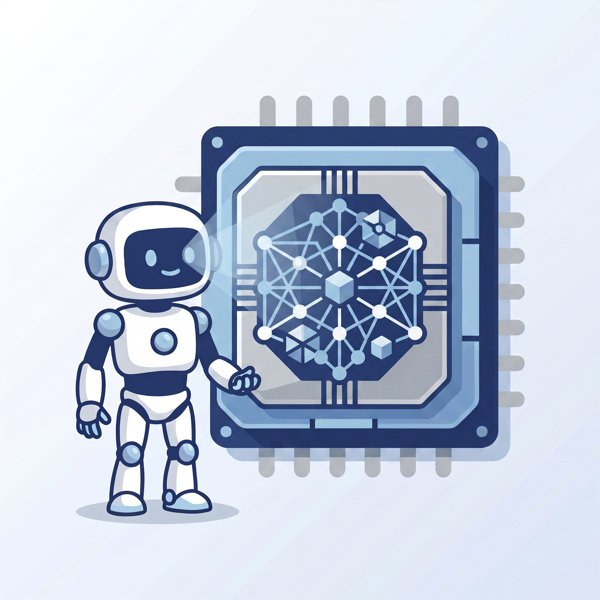
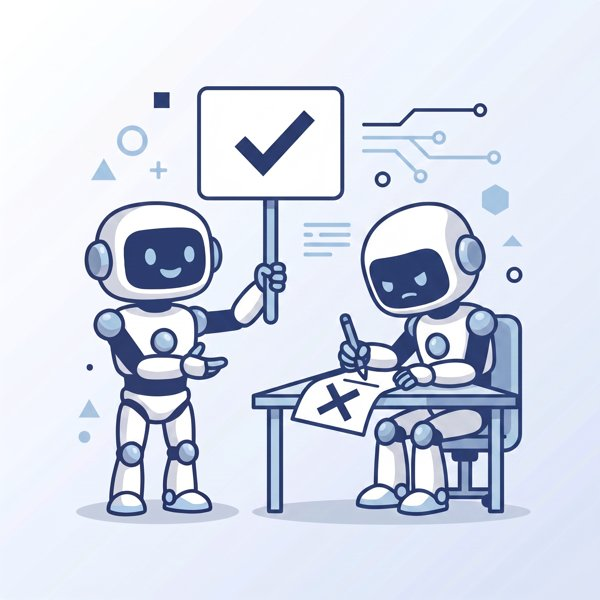
July 20: add real paper (arXiv:2607.15388, submitted Jul 16, verified)

diff --git a/_pages/ai-daily-reads.md b/_pages/ai-daily-reads.md
@@ -158,6 +158,15 @@ This page is generated automatically by an AI agent. Every evening it reviews th
     </div>
 
     <div class="read-item">
+      <img class="read-thumb" src="{{ '/images/daily-reads/2026-07-20-paper.jpg' | relative_url }}" alt="Reviewer robot holding a correct answer sign while solver robot ignores it" loading="lazy">
+      <div class="read-content">
+        <div class="read-title">Paper of the day: Reviewer precision does not guarantee critique uptake in multi-agent math reasoning</div>
+        <div class="read-desc">Tested on 4,181 math problems, a reviewer agent can spot errors with 86 percent precision, yet the solver agent rarely changes its answer in response. Broadcast-style peer discussion outperforms the planner-executor-reviewer pipeline on hard problems. The takeaway: a system can detect its own mistakes and still fail to fix them.</div>
+        <a class="read-link" href="https://arxiv.org/abs/2607.15388" target="_blank" rel="noopener">Read the source</a><span class="read-source">arxiv.org</span>
+      </div>
+    </div>
+
+    <div class="read-item">
       <img class="read-thumb" src="{{ '/images/daily-reads/2026-07-20-tweet.jpg' | relative_url }}" alt="Robot unlocking a chain around an open-source code repository with a key" loading="lazy">
       <div class="read-content">
         <div class="read-title">Post of the day: Ben Thompson proposes legalizing distillation to help US open models compete</div>